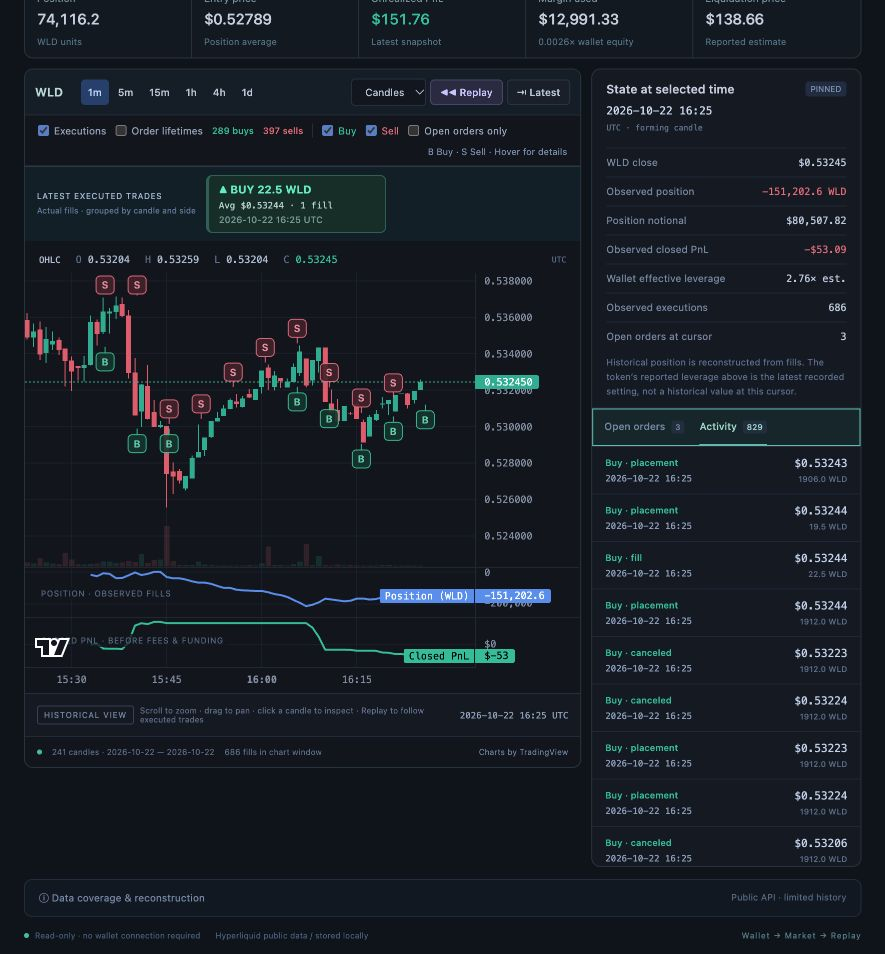
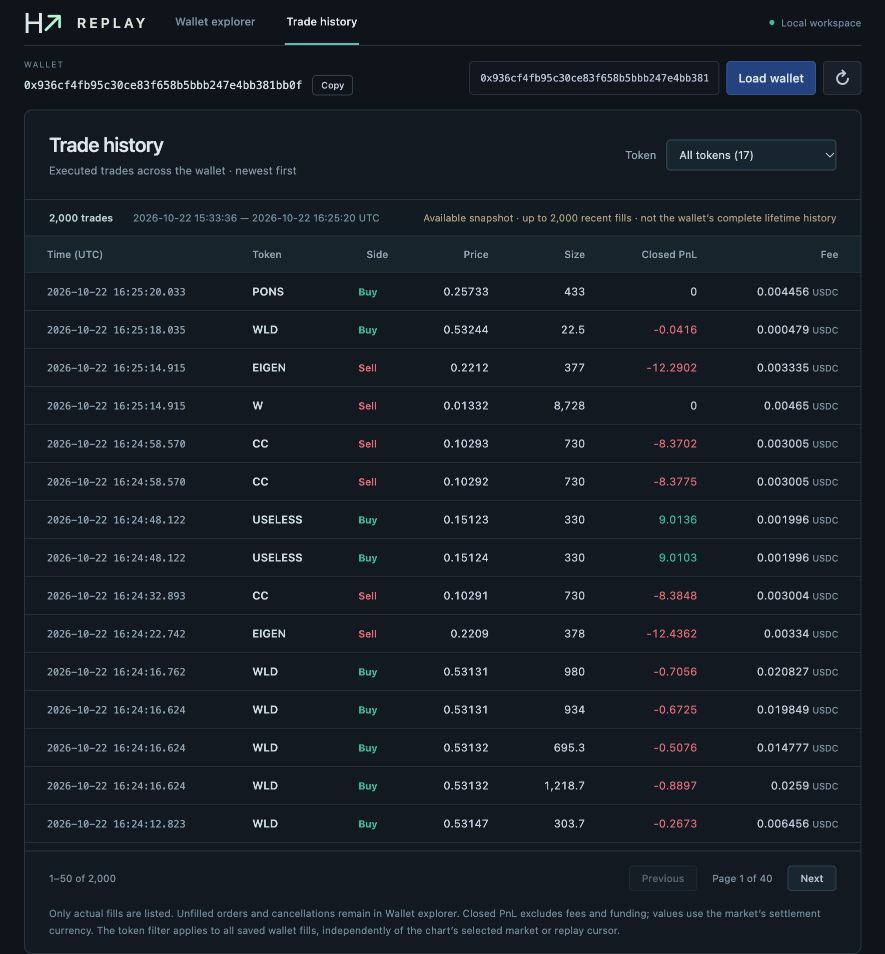
Add dedicated wallet trade history table with token filter

diff --git a/src/main.tsx b/src/main.tsx
@@ -6,6 +6,7 @@ import { executionGroups, tradeBars, nextTradeBar } from '../shared/executions';
 import type { LeverageResponse } from '../shared/leverage';
 import { WalletLeverage } from './WalletLeverage';
 import { MarketChart } from './MarketChart';
+import { TradeHistory } from './TradeHistory';
 import type { OverlayOptions } from './OperationOverlay';
 import './style.css';
 const fmt=(n:number,precision=2)=>n.toLocaleString('en-US',{maximumFractionDigits:precision});
@@ -15,6 +16,8 @@ const suggestedInterval=(span:number):Interval=>span<86400000?'1m':span<7*864000
 const date=(seconds:number)=>new Date(seconds*1000).toISOString().replace('T',' ').slice(0,16);
 async function request<T>(url:string,method='GET',signal?:AbortSignal):Promise<T>{const res=await fetch(url,{method,signal});const body=await res.json();if(!res.ok)throw new Error(body.error??'Request failed');return body as T;}
 function App(){
+  const [view,setView]=useState<'explorer'|'history'>(()=>location.hash==='#trade-history'?'history':'explorer');
+  function switchView(next:'explorer'|'history'){setView(next);setPlaying(false);history.replaceState(null,'',next==='history'?'#trade-history':'#wallet-overview');}
   const [leverageData,setLeverageData]=useState<LeverageResponse|null>(null);
   const [leverageError,setLeverageError]=useState('');
   const [wallet,setWallet]=useState(EXAMPLE_WALLET);
@@ -95,13 +98,13 @@ function App(){
     return()=>window.clearInterval(timer);
   },[playing,speed,candles.length,bars,replayMode]);
   useEffect(()=>{
-    function key(event:KeyboardEvent){if(event.target instanceof HTMLInputElement||event.target instanceof HTMLSelectElement||event.target instanceof HTMLTextAreaElement)return;
+    function key(event:KeyboardEvent){if(view!=='explorer')return;if(event.target instanceof HTMLInputElement||event.target instanceof HTMLSelectElement||event.target instanceof HTMLTextAreaElement)return;
       if(event.code==='Space'){event.preventDefault();if(candles.length){if(!replay){setReplay(true);if(cursor>=candles.length-1||replayMode==='trades'&&nextTradeBar(bars,cursor,1)===undefined)setCursor(replayStart);}setPlaying(p=>!p);}}
       if(event.code==='ArrowRight'&&replay){event.preventDefault();setPlaying(false);setCursor(i=>replayMode==='trades'?nextTradeBar(bars,i,1)??i:Math.min(candles.length-1,i+1));}
       if(event.code==='ArrowLeft'&&replay){event.preventDefault();setPlaying(false);setCursor(i=>replayMode==='trades'?nextTradeBar(bars,i,-1)??i:Math.max(0,i-1));}
     }
     window.addEventListener('keydown',key);return()=>window.removeEventListener('keydown',key);
-  },[replay,candles.length,cursor,replayStart,bars,replayMode]);
+  },[view,replay,candles.length,cursor,replayStart,bars,replayMode]);
   const step=INTERVALS[interval];
   const cutoff=candles.length?Math.min(snapshot?.fetchedAt??Infinity,((candles[cursor+1]?.time??candles[cursor]?.time+step)*1000)-1):0;
   const index=events.findLastIndex(e=>e.time<=cutoff);
@@ -128,10 +131,11 @@ function App(){
   function latest(){setReplay(false);setPlaying(false);setCursor(Math.max(0,candles.length-1));setSelectedEvent(undefined);setResetKey(k=>k+1);}
   function seek(event:ReplayEvent){const at=candleIndexAt(candles,event.time/1000);if(at>=0){setCursor(at);setPlaying(false);setSelectedEvent(event);}}
   return <main className="terminal">
-    <header className="topbar"><a href="/" className="brand"><span className="original-mark">H<span>↗</span></span><b className="original-wordmark">REPLAY</b></a><nav className="top-nav" aria-label="Workspace navigation"><a className="nav-active" href="#wallet-overview">Wallet explorer</a><a className="nav-history" href="#trade-history" onClick={()=>setTab('events')}>Trade history</a></nav><span className="local-badge"><i/> Local workspace</span></header>
+    <header className="topbar"><a href="/" className="brand"><span className="original-mark">H<span>↗</span></span><b className="original-wordmark">REPLAY</b></a><div className="top-nav" role="tablist" aria-label="Workspace views" onKeyDown={e=>{if(['ArrowLeft','ArrowRight','Home','End'].includes(e.key)){e.preventDefault();const next=e.key==='Home'?'explorer':e.key==='End'?'history':view==='explorer'?'history':'explorer';switchView(next);document.getElementById(next+'-tab')?.focus();}}}><button id="explorer-tab" role="tab" aria-selected={view==='explorer'} aria-controls="explorer-panel" tabIndex={view==='explorer'?0:-1} className={view==='explorer'?'nav-active':''} onClick={()=>switchView('explorer')}>Wallet explorer</button><button id="history-tab" role="tab" aria-selected={view==='history'} aria-controls="history-panel" tabIndex={view==='history'?0:-1} className={view==='history'?'nav-active':''} onClick={()=>switchView('history')}>Trade history</button></div><span className="local-badge"><i/> Local workspace</span></header>
     <section className="walletbar" id="wallet-overview" tabIndex={-1}><div className="wallet-title wallet-identity"><div><span className="wallet-identity-label">WALLET</span><div className="wallet-address-row"><h1>{snapshot?.wallet??'Load a wallet'}</h1><button type="button" className="copy-address" aria-label="Copy wallet address" disabled={!snapshot} onClick={()=>void copyAddress()}>{copyStatus==='Copied'?'Copied!':'Copy'}</button></div><span className="copy-feedback" role="status">{copyStatus!=='Copied'?copyStatus:''}</span></div></div><form onSubmit={e=>{e.preventDefault();void loadWallet(false);}}><input aria-label="Wallet address" value={wallet} onChange={e=>setWallet(e.target.value)} spellCheck={false}/><button disabled={busy||!/^0x[0-9a-fA-F]{40}$/.test(wallet)}>{busy?'Loading…':'Load wallet'}</button><button type="button" className="button-icon" title="Fetch latest wallet history" aria-label="Sync wallet" disabled={busy||!snapshot} onClick={()=>void loadWallet(true,snapshot!.wallet)}>↻</button></form></section>
     {error&&<div className="error-banner" role="alert">{error}</div>}
     {leverageError&&<div className="error-banner" role="alert">{leverageError}</div>}
+    <div id="explorer-panel" role="tabpanel" aria-labelledby="explorer-tab" hidden={view!=='explorer'}>
     <WalletLeverage data={leverageData} onRecording={()=>void toggleRecording()} onSelect={selectMarket}/>
     <section className="market-shortcuts" aria-label="Wallet markets"><span>MARKET</span><select className="wallet-market-picker" aria-label="Wallet market" value={coin} onChange={e=>selectMarket(e.target.value)}>{markets.map(m=><option key={m} value={m}>{m}</option>)}</select>{markets.map(m=>{const position=observedPositions.find(p=>p.position.coin===m)?.position;return <button key={m} className={coin===m?'active':''} onClick={()=>selectMarket(m)}><b>{m}</b>{position?<small className={Number(position.szi)>=0?'positive':'negative'}>{Number(position.szi)>=0?'LONG':'SHORT'}{position.leverage&&position.leverage.value>0?` · ${fmt(position.leverage.value)}×`:' · —'}</small>:<small>HISTORY</small>}</button>;})}</section>
     <section className="selected-market-summary"><div className="market-summary-heading"><div><span className="selected-market-symbol">{coin}</span><span className="market-kind">PERPETUAL</span><span className="token-leverage" title="Current leverage setting reported by Hyperliquid">{leverageText}</span>{current&&<span className={Number(current.szi)>=0?'position-direction positive':'position-direction negative'}>{Number(current.szi)>=0?'LONG':'SHORT'}</span>}</div><span>Latest observed state · {leverageData?.latest?new Date(leverageData.latest.capturedAt).toISOString().slice(11,19):snapshot?new Date(snapshot.fetchedAt).toISOString().slice(11,19):'—'} UTC</span></div><div className="market-summary-values"><Metric label="Position" value={current?fmt(Math.abs(Number(current.szi)),5):'—'} detail={coin+' units'}/><Metric label="Entry price" value={current?price(Number(current.entryPx)):'—'} detail="Position average"/><Metric label="Unrealized PnL" value={current?usd(Number(current.unrealizedPnl)):'—'} detail="Latest snapshot" positive={current?Number(current.unrealizedPnl)>=0:undefined}/><Metric label="Margin used" value={current?.marginUsed?usd(Number(current.marginUsed)):'—'} detail={selectedExposure===null?'Exposure / wallet equity unavailable':`${fmt(selectedExposure,4)}× wallet equity`}/><Metric label="Liquidation price" value={current?.liquidationPx?price(Number(current.liquidationPx)):'—'} detail="Reported estimate"/></div></section>
@@ -145,12 +149,14 @@ function App(){
         <div className="coverage-strip"><span className="status-dot"/><span>{candles.length?`${candles.length.toLocaleString()} candles · ${date(candles[0].time).slice(0,10)} — ${date(candles.at(-1)!.time).slice(0,10)}`:'Waiting for market data'}</span><span>{marketEvents.filter(e=>e.kind==='fill').length} fills in chart window</span>{events.length>marketEvents.length&&<span className="amber">{events.length-marketEvents.length} operations outside candle coverage</span>}<a href="https://www.tradingview.com/" target="_blank" rel="noreferrer">Charts by TradingView</a></div>
       </div>
       <aside className="inspector"><div className="inspector-heading"><h2>State at selected time</h2><span className={replay?'replay-dot':'pinned-dot'}>{replay?'REPLAY':'PINNED'}</span></div><div className="selected-date">{candles[cursor]?date(candles[cursor].time):'—'} <small>UTC · {candles[cursor]&&snapshot&&(candles[cursor].time+step)*1000>snapshot.fetchedAt?'forming candle':'candle close'}</small></div><dl><dt>{coin} close</dt><dd>{candles[cursor]?price(candles[cursor].close):'—'}</dd><dt>Observed position</dt><dd className={state.position!==null&&state.position<0?'negative':'positive'}>{state.position===null||isSpot?'Unknown':`${fmt(state.position,5)} ${coin}`}</dd><dt>Position notional</dt><dd>{state.position!==null&&!isSpot&&candles[cursor]?usd(Math.abs(state.position*candles[cursor].close)):'—'}</dd><dt>Observed closed PnL</dt><dd className={pnl>=0?'positive':'negative'}>{fills.length?usd(pnl):'—'}</dd><dt title="Wallet-wide effective leverage at or before this cursor; recorded samples take priority over estimates.">Wallet effective leverage</dt><dd>{(()=>{const recorded=leverageData?.recorded.findLast(p=>p.time<=cutoff);const estimated=leverageData?.estimated.findLast(p=>p.time<=cutoff);const p=recorded&&cutoff-recorded.time<=90000?recorded:estimated&&cutoff-estimated.time<=300000?estimated:null;return p?.value!==null&&p?.value!==undefined?`${fmt(p.value)}× ${p===recorded?'recorded':'est.'}`:'—';})()}</dd><dt>Observed executions</dt><dd>{fills.length}</dd><dt>Open orders at cursor</dt><dd>{state.orders.length}</dd></dl><p className="inspector-note">{events.some(e=>e.kind==='fill')?'':`No ${coin} fills were returned in the bounded wallet history. `}Historical position is reconstructed from fills. The token’s reported leverage above is the latest recorded setting, not a historical value at this cursor.</p>{!isSpot&&state.discontinuities>0&&<p className="gap-warning">{state.discontinuities} position gaps detected in the available fills.</p>}
-        <div className="side-tabs" id="trade-history" tabIndex={-1} aria-label="Trade history"><button className={tab==='orders'?'active':''} onClick={()=>setTab('orders')}>Open orders <small>{state.orders.length}</small></button><button className={tab==='events'?'active':''} onClick={()=>setTab('events')}>Activity <small>{renderedEvents.length}</small></button></div>
+        <div className="side-tabs"><button className={tab==='orders'?'active':''} onClick={()=>setTab('orders')}>Open orders <small>{state.orders.length}</small></button><button className={tab==='events'?'active':''} onClick={()=>setTab('events')}>Activity <small>{renderedEvents.length}</small></button></div>
         <div className="side-list">{tab==='orders'?<><div className="list-head"><span>Side / size</span><span>Limit price</span></div>{state.orders.length?state.orders.sort((a,b)=>Number(b.event.price)-Number(a.event.price)).map(({event,remaining})=><button className="order-item" key={event.id} onClick={()=>{setSelectedEvent(event);}}><div><b className={event.side==='B'?'positive':'negative'}>{event.side==='B'?'Buy':'Sell'}</b><span>{fmt(remaining,5)} {coin}</span></div><div><strong>{price(Number(event.price))}</strong><small>Estimated lifetime</small></div></button>):<p className="empty-note">No open orders reconstructed at this time.</p>}</>:<>{renderedEvents.length?renderedEvents.slice().reverse().slice(0,100).map(event=><button className="order-item event-item" key={event.id} onClick={()=>seek(event)}><div><b className={event.side==='B'?'positive':'negative'}>{event.side==='B'?'Buy':'Sell'} · {event.status??event.kind}</b><span>{date(event.time/1000)}</span></div><div><strong>{price(Number(event.price))}</strong><small>{event.size} {coin}</small></div></button>):<p className="empty-note">No activity within the current candle window.</p>}<p className="empty-note">Latest 100 activity records in this window.</p></>}</div>
         {selectedEvent&&<div className="event-detail"><button className="close-detail" aria-label="Close event detail" onClick={()=>setSelectedEvent(undefined)}>×</button><span className="toolbar-label">ORDER #{selectedEvent.oid}</span><h3>{selectedEvent.status??selectedEvent.kind} · {selectedEvent.side==='B'?'Buy':'Sell'}</h3><p>{selectedEvent.size} {coin} @ {price(Number(selectedEvent.price))}</p><p>{selectedEvent.evidence==='reported'?'API record: execution or status returned directly by Hyperliquid.':'Estimated placement: timestamp and latest fields, not a complete edit history.'}</p></div>}
       </aside>
     </section>
     <details className="data-notes"><summary><span>ⓘ Data coverage & reconstruction</span><span>Public API · limited history</span></summary><div><p><b>B/S badges</b> summarize actual fills. Nearby same-side executions are grouped based on chart zoom; hover or click to inspect quantity, average price, and fill count. <b>Dashed order lines</b> estimate lifetimes using the order timestamp, latest price/size, and final status. Order modifications are not available. Historical records marked open but absent from current open orders are excluded because their end time is unknown.</p>{snapshot?.warnings.map(w=><p key={w}>{w}</p>)}<p>At candle close, position and closed PnL use only fills observed up to that point. Closed PnL excludes fees, funding, transfers and unrealized PnL. Account and leverage metrics at the top are current snapshots. The leverage setting (cross/isolated) is reported by Hyperliquid. Gross account leverage is total perpetual notional divided by account equity; selected-market exposure uses that position’s notional over the same equity. These are exposure measures, not liquidation-risk ratios. Account snapshots are recorded in the background across every discovered DEX. The current reported leverage appears on each market tab and in the positions table. Historical configured leverage settings remain unavailable before recording began. Candles are limited to the most recent 5,000 bars per interval. No market data is synthesized.</p></div></details>
+    </div>
+    <div id="history-panel" role="tabpanel" aria-labelledby="history-tab" hidden={view!=='history'}><TradeHistory key={snapshot?.wallet??'empty'} snapshot={snapshot} busy={busy}/></div>
     <footer><span><i className="status-dot"/> Read-only · no wallet connection required</span><span>Hyperliquid public data / stored locally</span><span className="workspace-path">Wallet → Market → Replay</span></footer>
   </main>;
 }

diff --git a/src/style.css b/src/style.css
@@ -15,3 +15,4 @@
 @media(max-width:650px){.wallet-summary-bar{grid-template-columns:1fr 1fr;gap:16px}.wallet-recording{border-left:0;padding:0}.market-summary-values{grid-template-columns:repeat(2,minmax(0,1fr))}.market-summary-values .metric{border-bottom:1px solid #263946!important}.market-summary-values .metric:last-child{grid-column:1 / -1;border-bottom:0!important}.market-summary-heading{align-items:flex-start;gap:8px}.market-summary-heading>div{flex-wrap:wrap}.market-summary-heading>span{max-width:95px;line-height:1.5;text-align:right}.token-leverage{font-size:11px}.market-shortcuts>span{display:none}.wallet-market-picker{min-width:85px}.chart-host{height:420px}.positions-scroll td,.positions-scroll th{padding:8px 12px}}
 .wallet-identity{min-width:0}.wallet-identity>div{min-width:0}.wallet-identity-label{display:block;font-size:8px;letter-spacing:1.2px;color:#758e9f;margin-bottom:6px}.wallet-address-row{display:flex;align-items:center;gap:10px;min-width:0}.wallet-title.wallet-identity h1{font:11px ui-monospace,SFMono-Regular,Consolas,monospace;letter-spacing:0;margin:0;color:#d5e4eb;overflow-wrap:anywhere;user-select:all}.copy-address{font-size:9px;padding:4px 8px;background:transparent;border-color:#344b58;flex-shrink:0}.copy-feedback{display:block;font-size:9px;color:#dcb080}.copy-feedback:empty{display:none}@media(max-width:1100px){.walletbar{flex-wrap:wrap}.walletbar form{margin-left:auto}}@media(max-width:650px){.wallet-title.wallet-identity h1{font-size:10px}.wallet-address-row{gap:7px}.wallet-identity{width:100%}}
 .top-nav a{display:flex;align-items:center;height:100%;font-size:11px;color:#a5b8c8}.top-nav a:hover{color:#e3f2ec}.nav-history{border-bottom:2px solid transparent}.nav-history:hover,.nav-history:focus-visible{border-bottom-color:#65c4b6}#trade-history,#wallet-overview{scroll-margin-top:16px}#trade-history:target{box-shadow:inset 0 0 0 1px #65c4b6;background:#152b30}@media(max-width:850px){.top-nav{display:flex;gap:16px}.topbar{gap:20px}.local-badge{display:none}}
+[hidden]{display:none!important}.top-nav>button{height:100%;display:flex;align-items:center;padding:0 2px;border:0;border-radius:0;border-bottom:2px solid transparent;background:none;font-size:11px;color:#879eae}.top-nav>button.nav-active{border-bottom-color:#65c4b6;color:#e2efed}.top-nav>button:hover{background:none;color:#e2efed}.trade-history-panel{background:#111b24;border:1px solid #2b3e4c;border-radius:8px;overflow:hidden}.history-heading{display:flex;justify-content:space-between;align-items:center;gap:20px;padding:22px 24px}.history-heading h2{font-size:20px;font-weight:550;margin:0 0 8px;color:#e0eaf0;letter-spacing:-.4px}.history-heading p{margin:0;color:#8ca3b3;font-size:11px}.history-heading label{display:flex;align-items:center;gap:10px;font-size:11px;color:#9db3c1}.history-heading select{min-width:170px;background:#172a35;border-color:#395564;color:#d7e7e6}.history-coverage{display:flex;align-items:center;gap:12px 20px;flex-wrap:wrap;padding:12px 24px;border-block:1px solid #293c49;background:#101d27;font-size:10px;color:#809aab}.history-coverage strong{font-weight:550;color:#c4dadb}.history-coverage>span:last-child{margin-left:auto;color:#b5a68b}.history-table-scroll{max-height:calc(100dvh - 340px);min-height:200px;overflow:auto;scrollbar-width:thin}.history-table-scroll table{width:100%;border-collapse:collapse;text-align:right;white-space:nowrap;font-size:11px;font-variant-numeric:tabular-nums}.history-table-scroll thead th{position:sticky;top:0;background:#192833;color:#9bb0bd;font-size:10px;font-weight:500;z-index:1}.history-table-scroll th,.history-table-scroll td{padding:12px 22px;border-bottom:1px solid #233542}.history-table-scroll th:first-child,.history-table-scroll td:first-child{text-align:left}.history-table-scroll th:nth-child(2),.history-table-scroll td:nth-child(3){text-align:left}.history-table-scroll tbody th{font-weight:550;color:#d4e2e9}.history-table-scroll time{font:10px ui-monospace,monospace;color:#9db0bf}.history-table-scroll tbody tr:hover{background:#192d37}.history-side{font-size:10px;font-weight:600}.history-table-scroll td small{color:#8ca3b3;font-size:9px}.history-pagination{display:flex;justify-content:space-between;align-items:center;gap:12px;padding:14px 24px;border-top:1px solid #293c49;font-size:10px;color:#89a2b3}.history-pagination>div{display:flex;align-items:center;gap:15px}.history-pagination button{padding:6px 12px;font-size:10px;background:#1a2b37;border-color:#344a59}.history-note{padding:0 24px 14px;color:#7993a5;font-size:10px;line-height:1.7;margin:0;max-width:1150px}.history-empty{padding:50px 24px;text-align:center;color:#8ba3b4;font-size:12px}@media(max-width:650px){.history-heading{padding:18px 14px;align-items:flex-start;flex-wrap:wrap}.history-heading h2{font-size:18px}.history-heading select{min-width:150px}.history-coverage,.history-pagination{padding:12px 14px}.history-coverage>span:last-child{margin-left:0}.history-table-scroll th,.history-table-scroll td{padding:12px 14px}.history-table-scroll{max-height:60dvh}.history-note{padding:0 14px 14px}.history-pagination>div{gap:8px}}

diff --git a/src/TradeHistory.tsx b/src/TradeHistory.tsx
@@ -1,0 +1,20 @@
+import {useMemo,useState} from 'react';
+import {eventsFrom,type Snapshot} from '../shared/replay';
+const number=(value:string,digits=6)=>Number(value).toLocaleString('en-US',{maximumFractionDigits:digits});
+const timestamp=(time:number)=>new Date(time).toISOString().replace('T',' ').slice(0,23);
+const PAGE_SIZE=50;
+export function TradeHistory({snapshot,busy}:{snapshot:Snapshot|null;busy:boolean}){
+ const [token,setToken]=useState(''),[page,setPage]=useState(0);
+ const trades=useMemo(()=>snapshot?eventsFrom(snapshot).filter(e=>e.kind==='fill').reverse().map(e=>e.fill!):[],[snapshot]);
+ const tokens=useMemo(()=>[...new Set(trades.map(f=>f.coin))].sort(),[trades]);
+ const filtered=token?trades.filter(f=>f.coin===token):trades;
+ const pages=Math.max(1,Math.ceil(filtered.length/PAGE_SIZE));
+ const currentPage=Math.min(page,pages-1),start=currentPage*PAGE_SIZE;
+ return <section className="trade-history-panel">
+  <div className="history-heading"><div><h2>Trade history</h2><p>Executed trades across the wallet · newest first</p></div><label>Token<select aria-label="Trade history token" value={token} onChange={e=>{setToken(e.target.value);setPage(0);}}><option value="">All tokens ({tokens.length})</option>{tokens.map(t=><option key={t} value={t}>{t}</option>)}</select></label></div>
+  <div className="history-coverage"><strong>{filtered.length.toLocaleString()} trades{token?' · '+token:''}</strong><span>{trades.length?`${timestamp(trades.at(-1)!.time).slice(0,19)} — ${timestamp(trades[0].time).slice(0,19)} UTC`:'No trades loaded'}</span><span>Available snapshot · up to 2,000 recent fills · not the wallet’s complete lifetime history</span></div>
+  <div className="history-table-scroll"><table aria-label="Wallet executed trades"><thead><tr><th scope="col">Time (UTC)</th><th scope="col">Token</th><th scope="col">Side</th><th scope="col">Price</th><th scope="col">Size</th><th scope="col">Closed PnL</th><th scope="col">Fee</th></tr></thead><tbody>{filtered.slice(start,start+PAGE_SIZE).map(f=><tr key={f.coin+':'+f.tid}><td><time dateTime={new Date(f.time).toISOString()}>{timestamp(f.time)}</time></td><th scope="row">{f.coin}</th><td><span className={f.side==='B'?'history-side positive':'history-side negative'}>{f.side==='B'?'Buy':'Sell'}</span></td><td>{number(f.px,8)}</td><td>{number(f.sz,8)}</td><td className={Number(f.closedPnl)>0?'positive':Number(f.closedPnl)<0?'negative':''}>{number(f.closedPnl,4)}</td><td>{number(f.fee,6)} <small>{f.feeToken??''}</small></td></tr>)}</tbody></table>{!filtered.length&&<p className="history-empty">{busy?'Loading wallet trades…':!snapshot?'Load a wallet to see its executed trades.':'No executed trades available for this token in the saved snapshot.'}</p>}</div>
+  <div className="history-pagination"><span>{filtered.length?`${start+1}–${Math.min(start+PAGE_SIZE,filtered.length)} of ${filtered.length.toLocaleString()}`:'0 trades'}</span><div><button aria-label="Previous trades page" disabled={currentPage===0} onClick={()=>setPage(currentPage-1)}>Previous</button><span>Page {currentPage+1} of {pages}</span><button aria-label="Next trades page" disabled={currentPage>=pages-1} onClick={()=>setPage(currentPage+1)}>Next</button></div></div>
+  <p className="history-note">Only actual fills are listed. Unfilled orders and cancellations remain in Wallet explorer. Closed PnL excludes fees and funding; values use the market’s settlement currency. The token filter applies to all saved wallet fills, independently of the chart’s selected market or replay cursor.</p>
+ </section>;
+}

diff --git a/README.md b/README.md
@@ -65,6 +65,10 @@ Charts use [TradingView Lightweight Charts](https://www.tradingview.com/lightwei
 
 The execution marker interaction follows [Binance’s B/S history icons](https://www.binance.com/en-AU/support/faq/detail/f32ddef520094124878ea6786bd743df) and [TradingView’s grouped executions](https://www.tradingview.com/support/solutions/43000763371-execution-marks/). Grouped badges summarize visible fills, not an exact single execution price; the popover explicitly shows the weighted average and fill count.
 
+## Trade history tab
+
+The dedicated Trade history view lists every actual fill in the saved wallet snapshot, newest first, independently of chart market selection or replay cursor. Filter by token and page through 50 rows at a time. Columns show UTC execution time, token, buy/sell side, price, size, closed PnL and fees. The view shows snapshot coverage and the 2,000-fill API limit; it does not claim lifetime history. Wallet explorer retains its chart, selection and replay state when switching tabs, and playback pauses on tab changes.
+
 ## Wallet-wide effective leverage and account recording
 
 **Definition:** sum of absolute perpetual position notionals across all discovered DEXs, divided by their account equity, expressed in USDC-equivalent terms. Longs and shorts are never netted. Spot inventory is not added to perpetual exposure; linked subaccounts and vault wallets are separate addresses.
